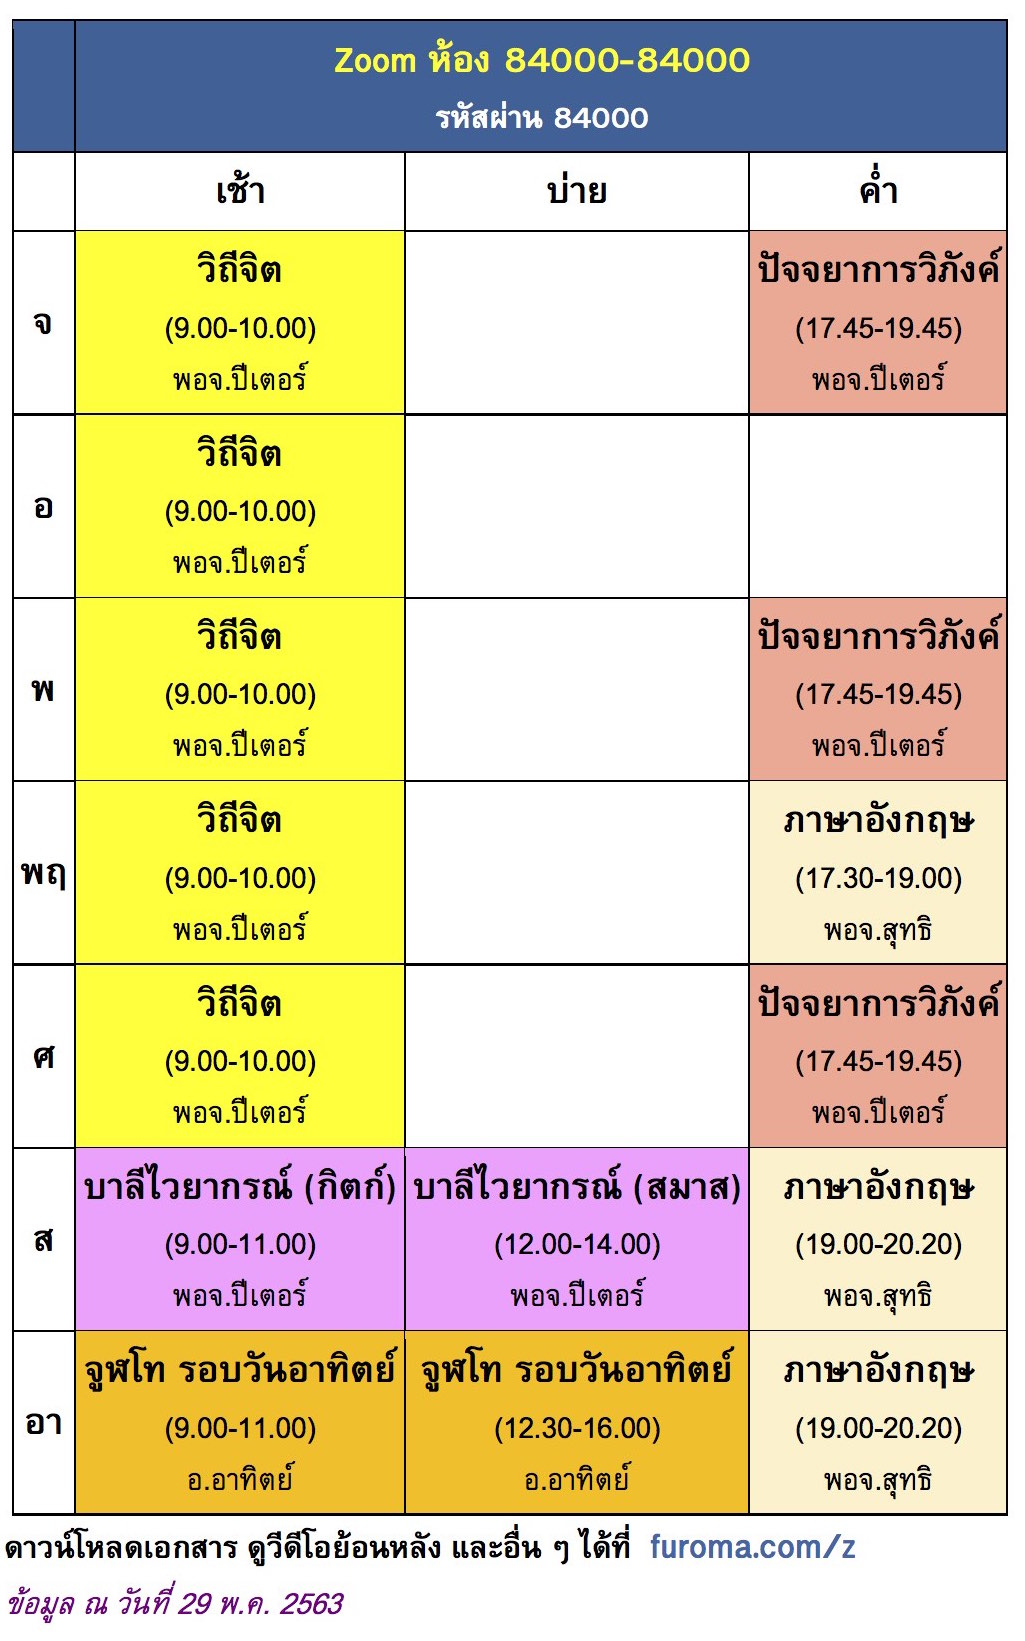
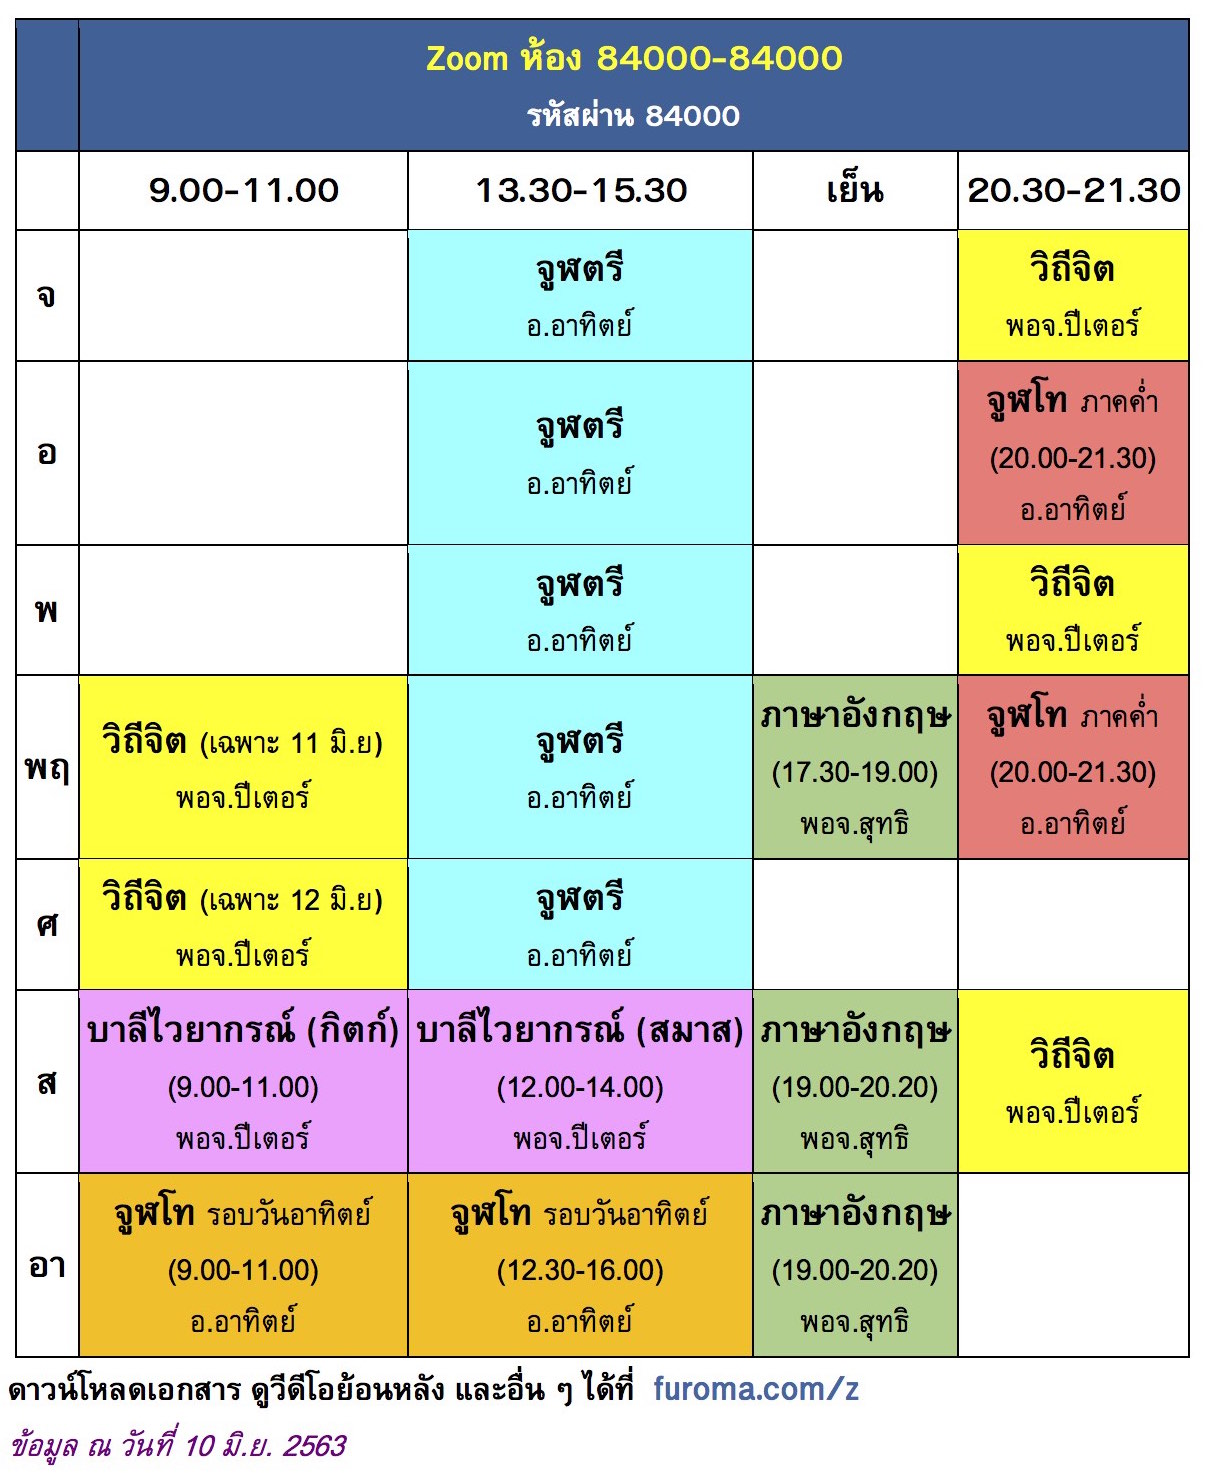
2020-06-10

diff --git a/z/index.html b/z/index.html
@@ -49,11 +49,11 @@
 
 
   <A href=https://zoom.us/j/8400042000?pwd=SW1GOXp2Yk5xZTNtYmdjZER2bS9hdz09>
-  <SPAN class=banner>คลิกเพื่อเข้าห้อง <SPAN style="color:yellow">84000 42000</SPAN><BR />อินทริย / อายตน / สัจจ <SPAN style="font-weight:bold">ยมก</SPAN><BR/>
-ขุททกปาฐะ</SPAN></A>
+  <SPAN class=banner>คลิกเพื่อเข้าห้อง <SPAN style="color:yellow">84000 42000</SPAN><BR />อินทริย / สัจจ <SPAN style="font-weight:bold">ยมก</SPAN><BR/>
+จูฬเอก / มัช.เอก / ขุททกปาฐะ</SPAN></A>
 
 <A href=https://zoom.us/j/8400084000?pwd=OUhydDBhbm5BMm5uZCtnR2lRVlRydz09>
-  <SPAN class=banner>คลิกเพื่อเข้าห้อง <SPAN style="color:yellow">84000 84000</SPAN><BR />ปัจจยาการ / วิถีจิต / บาลีไวยากรณ์<BR/>
+  <SPAN class=banner>คลิกเพื่อเข้าห้อง <SPAN style="color:yellow">84000 84000</SPAN><BR />บาลีไวยากรณ์ / วิถีจิต / จูฬตรี-โท<BR/>
 ภาษาอังกฤษ</SPAN></A><BR/>
 <BR/>
 
@@ -61,8 +61,8 @@
 <B>ปัจจยาการวิภังค์</B>: เลื่อนคลาสวันที่ 15 เม.ย. เป็นวันที่ 14 เม.ย.</SPAN><!---->
 
 <TABLE cellpadding=0 cellspacing=0 align=center><TR valign=top><TD>
-<A href=42000.jpg?06-06><IMG border=0 src="42000.jpg?06-06" width=500px height=600px /></A>
-<A href=84000.jpg?05-29><IMG border=0 src="84000.jpg?05-29" width=500px height=600px /></A></TABLE>
+<A href=42000.jpg?06-10><IMG border=0 src="42000.jpg?06-10" width=500px height=600px /></A>
+<A href=84000.jpg?06-10><IMG border=0 src="84000.jpg?06-10" width=500px height=600px /></A></TABLE>
 (คลิกที่รูป เพื่อดูตารางสอนที่ใหญ่ขึ้น)<BR/>
 
 <BR/><SPAN style="text-align:center; color:magenta; font-size:22px; font-weight:bold;">สื่อการเรียน</SPAN>
